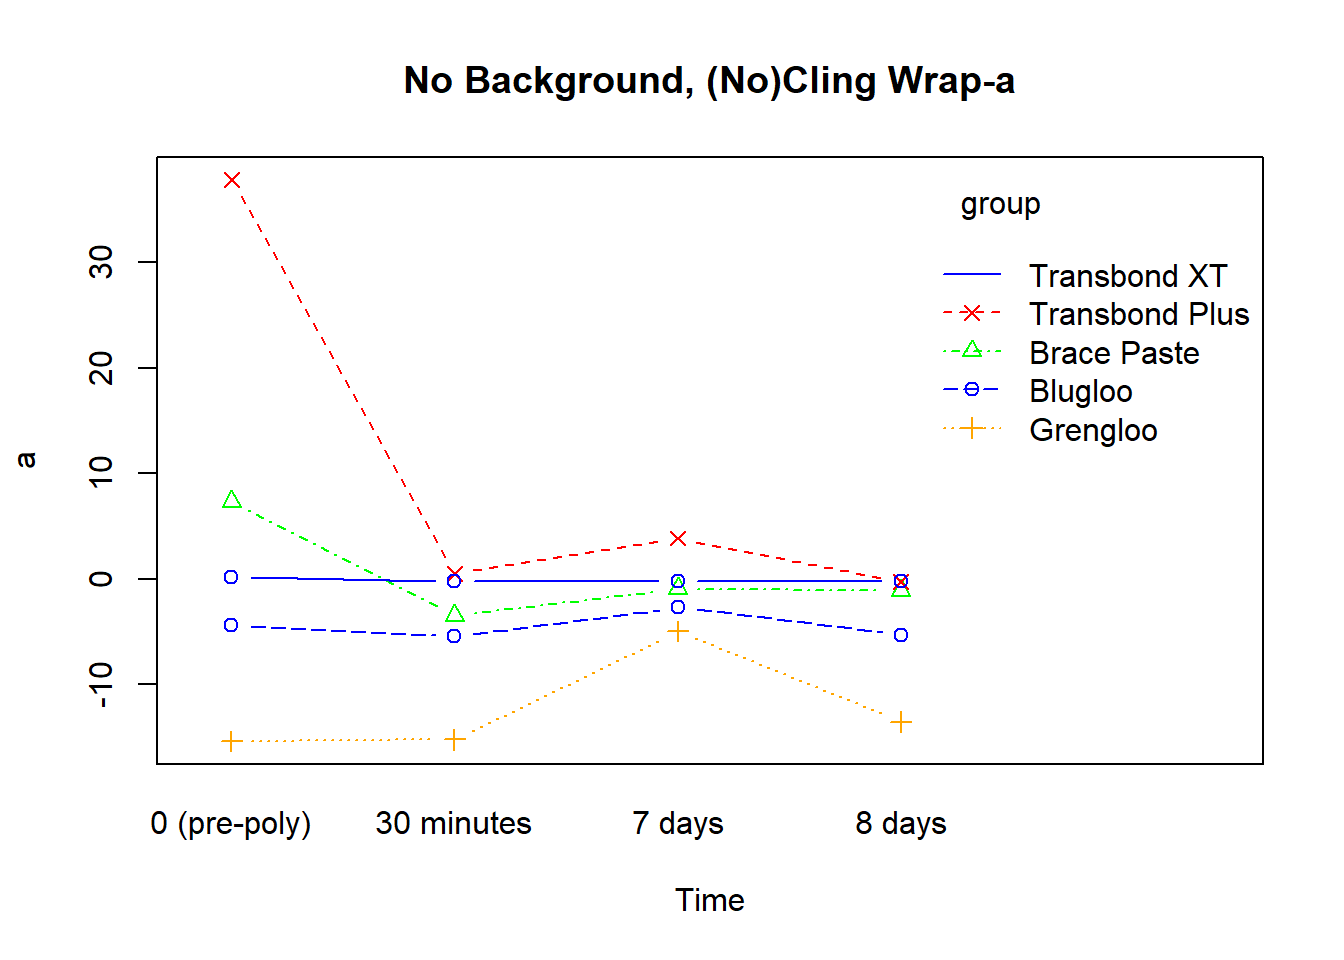
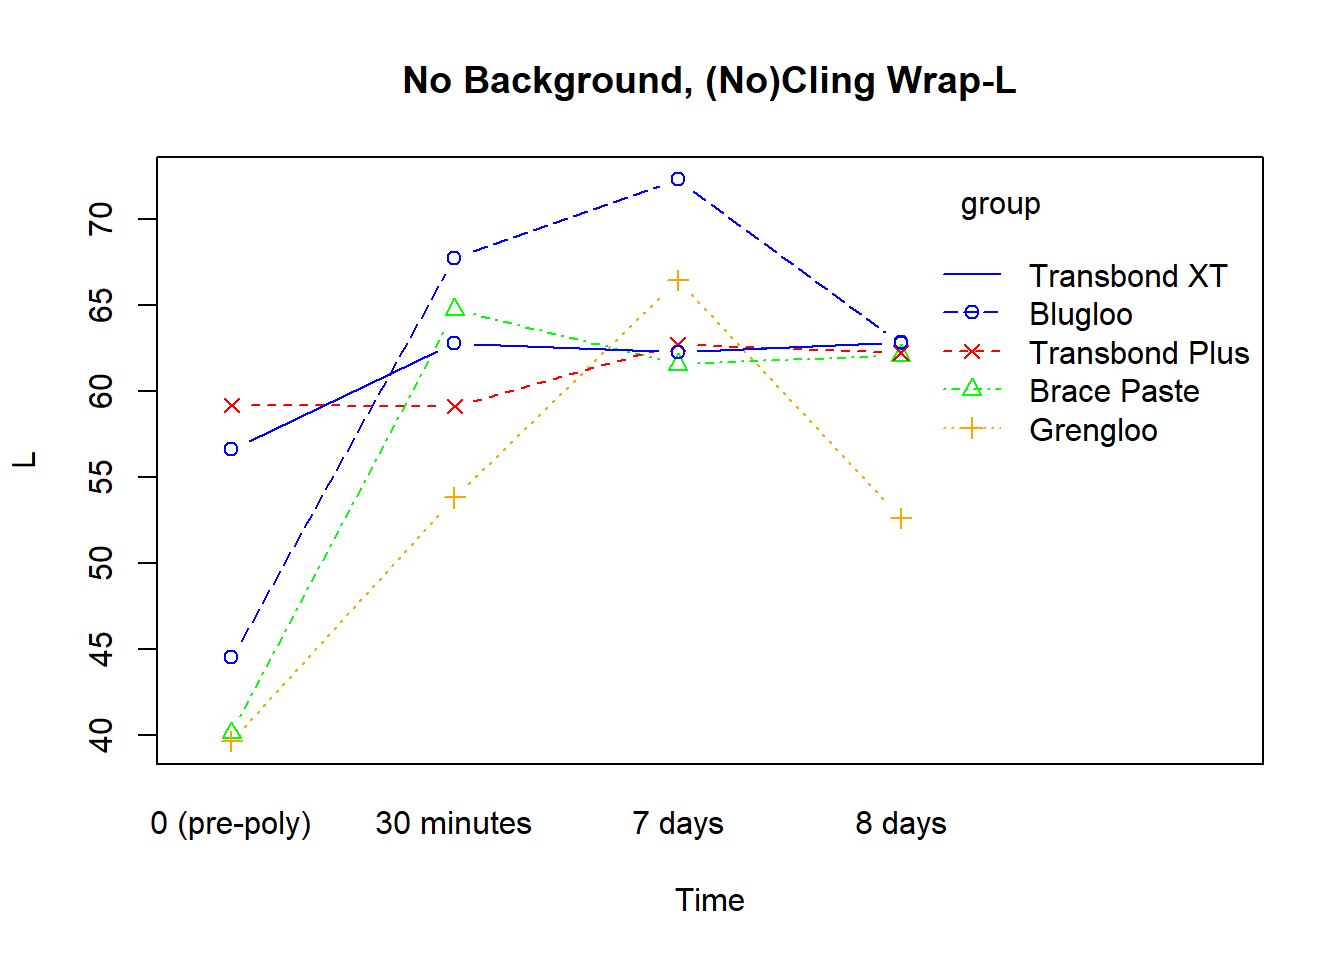
5/10/2022

diff --git a/docs/2022_Apr2.html b/docs/2022_Apr2.html
@@ -381,7 +381,7 @@ div.tocify {
 <div class="tab-content">
 <div id="summary" class="tab-pane fade in active">
 <p>
-<strong>Last updated:</strong> 2022-05-03
+<strong>Last updated:</strong> 2022-05-10
 </p>
 <p>
 <strong>Checks:</strong> <span class="glyphicon glyphicon-ok text-success" aria-hidden="true"></span> 6 <span class="glyphicon glyphicon-exclamation-sign text-danger" aria-hidden="true"></span> 1
@@ -472,16 +472,16 @@ This reproducible <a href="https://rmarkdown.rstudio.com">R Markdown</a> analysi
 <div class="panel panel-default">
 <div class="panel-heading">
 <p class="panel-title">
-<a data-toggle="collapse" data-parent="#workflowr-checks" href="#strongRepositoryversionstrongahrefhttpsgithubcomhan16Collaborationstreef0edaa047ded06655934db1cfc3f0a35de7aabb6targetblankf0edaa0a"> <span class="glyphicon glyphicon-ok text-success" aria-hidden="true"></span> <strong>Repository version:</strong> <a href="https://github.com/han16/Collaborations/tree/f0edaa047ded06655934db1cfc3f0a35de7aabb6" target="_blank">f0edaa0</a> </a>
+<a data-toggle="collapse" data-parent="#workflowr-checks" href="#strongRepositoryversionstrongahrefhttpsgithubcomhan16Collaborationstree24c530570c84b04e310db9ac09c3ef4d32ff3679targetblank24c5305a"> <span class="glyphicon glyphicon-ok text-success" aria-hidden="true"></span> <strong>Repository version:</strong> <a href="https://github.com/han16/Collaborations/tree/24c530570c84b04e310db9ac09c3ef4d32ff3679" target="_blank">24c5305</a> </a>
 </p>
 </div>
[2 lines of base64/hex data omitted]
 <div class="panel-body">
 <p>
 Great! You are using Git for version control. Tracking code development and connecting the code version to the results is critical for reproducibility.
 </p>
 <p>
-The results in this page were generated with repository version <a href="https://github.com/han16/Collaborations/tree/f0edaa047ded06655934db1cfc3f0a35de7aabb6" target="_blank">f0edaa0</a>. See the <em>Past versions</em> tab to see a history of the changes made to the R Markdown and HTML files.
+The results in this page were generated with repository version <a href="https://github.com/han16/Collaborations/tree/24c530570c84b04e310db9ac09c3ef4d32ff3679" target="_blank">24c5305</a>. See the <em>Past versions</em> tab to see a history of the changes made to the R Markdown and HTML files.
 </p>
 <p>
 Note that you need to be careful to ensure that all relevant files for the analysis have been committed to Git prior to generating the results (you can use <code>wflow_publish</code> or <code>wflow_git_commit</code>). workflowr only checks the R Markdown file, but you know if there are other scripts or data files that it depends on. Below is the status of the Git repository when the results were generated:
@@ -530,6 +530,40 @@ Message
 </tr>
 </thead>
 <tbody>
+<tr>
+<td>
+Rmd
+</td>
+<td>
+<a href="https://github.com/han16/Collaborations/blob/261f387cee753d8516ccf01fd4056c6f5c880e26/analysis/2022_Apr2.Rmd" target="_blank">261f387</a>
+</td>
+<td>
+Han
+</td>
+<td>
+2022-05-03
+</td>
+<td>
+5/3/2022
+</td>
+</tr>
+<tr>
+<td>
+html
+</td>
+<td>
+<a href="https://rawcdn.githack.com/han16/Collaborations/261f387cee753d8516ccf01fd4056c6f5c880e26/docs/2022_Apr2.html" target="_blank">261f387</a>
+</td>
+<td>
+Han
+</td>
+<td>
+2022-05-03
+</td>
+<td>
+5/3/2022
+</td>
+</tr>
 <tr>
 <td>
 Rmd
@@ -760,6 +794,38 @@ Han
 <li><p>small p value (0) indicates that they are not all equal</p></li>
 </ul>
 </div>
+<div id="pairwise-comparison-of-each-material-to-control-for-translucency" class="section level2">
+<h2>pairwise comparison of each material to control for Translucency</h2>
+<table>
+<thead>
+<tr class="header">
+<th align="left">comparison</th>
+<th align="right">p_value</th>
+</tr>
+</thead>
+<tbody>
+<tr class="odd">
+<td align="left">Brace Paste vs Transbond XT</td>
+<td align="right">0.0006081</td>
+</tr>
+<tr class="even">
+<td align="left">Blugloo vs Transbond XT</td>
+<td align="right">0.0000000</td>
+</tr>
+<tr class="odd">
+<td align="left">Grengloo vs Transbond XT</td>
+<td align="right">0.0000000</td>
+</tr>
+<tr class="even">
+<td align="left">Transbond Plus vs Transbond XT</td>
+<td align="right">0.0005694</td>
+</tr>
+</tbody>
+</table>
+<ul>
+<li>for column <code>Translucency_of each at_37C_EE-FF_DE</code>, compare with different materials</li>
+</ul>
+</div>
 <div id="dd-vs-gg" class="section level2">
 <h2>DD vs GG</h2>
 <table>
@@ -812,39 +878,39 @@ Han
 </div>
 <div id="response-profile-analysis" class="section level2">
 <h2>response profile analysis</h2>
-<div id="no-background-nocling-wrap-l" class="section level3">
-<h3>No Background, (No)Cling Wrap-L</h3>
-<p><img src="figure/2022_Apr2.Rmd/unnamed-chunk-4-1.png" width="672" style="display: block; margin: auto;" /></p>
-<pre><code>Denom. DF: 180 
-            numDF  F-value p-value
-(Intercept)     1 392513.1  &lt;.0001
-time            3   1571.3  &lt;.0001
-group           4    304.2  &lt;.0001
-time:group     12    190.4  &lt;.0001</code></pre>
+<div id="no-background-no-cling-wrap-l" class="section level3">
+<h3>No Background, No Cling Wrap-L</h3>
+<p><img src="figure/2022_Apr2.Rmd/unnamed-chunk-6-1.png" width="672" style="display: block; margin: auto;" /></p>
+<pre><code>Denom. DF: 135 
+            numDF   F-value p-value
+(Intercept)     1 232235.26  &lt;.0001
+time            2   1974.82  &lt;.0001
+group           4    397.84  &lt;.0001
+time:group      8    136.87  &lt;.0001</code></pre>
 <ul>
 <li><p>small p value for <code>time:group</code> suggests the change pattern after 0 (pre-poly) are different across material groups.</p></li>
-<li><p>four conditions are <code>Pre-Polymerization-No Background, Cling Wrap-L</code>, <code>30 Minutes Post-Polymerization-No Background, No Cling Wrap-L</code>, <code>7 Days Post-Polymerization-No Background, No Cling Wrap-L</code>, <code>8 Days Post-Polymerization-No Background, No Cling Wrap-L</code>, so in addition to time difference, Cling wrap is also different as only <code>Cling wrap</code> happens at Pre-Polymerization.</p></li>
+<li><p>four conditions are <code>Pre-Polymerization-No Background, Cling Wrap-L</code>, <code>30 Minutes Post-Polymerization-No Background, No Cling Wrap-L</code>, <code>8 Days Post-Polymerization-No Background, No Cling Wrap-L</code>, while at 0, use adjusted values</p></li>
 </ul>
 </div>
-<div id="no-background-nocling-wrap-a" class="section level3">
-<h3>No Background, (No)Cling Wrap-a</h3>
-<p><img src="figure/2022_Apr2.Rmd/unnamed-chunk-5-1.png" width="672" style="display: block; margin: auto;" /></p>
-<pre><code>Denom. DF: 180 
-            numDF   F-value p-value
-(Intercept)     1  2167.724  &lt;.0001
-time            3  7735.818  &lt;.0001
-group           4 20832.936  &lt;.0001
-time:group     12  5370.746  &lt;.0001</code></pre>
+<div id="no-background-no-cling-wrap-a" class="section level3">
+<h3>No Background, No Cling Wrap-a</h3>
+<p><img src="figure/2022_Apr2.Rmd/unnamed-chunk-7-1.png" width="672" style="display: block; margin: auto;" /></p>
+<pre><code>Denom. DF: 135 
+            numDF  F-value p-value
+(Intercept)     1  3344.24  &lt;.0001
+time            2 12351.30  &lt;.0001
+group           4 31646.57  &lt;.0001
+time:group      8  9483.02  &lt;.0001</code></pre>
 </div>
 <div id="no-background-nocling-wrap-b" class="section level3">
 <h3>No Background, (No)Cling Wrap-b</h3>
-<p><img src="figure/2022_Apr2.Rmd/unnamed-chunk-6-1.png" width="672" style="display: block; margin: auto;" /></p>
-<pre><code>Denom. DF: 180 
+<p><img src="figure/2022_Apr2.Rmd/unnamed-chunk-8-1.png" width="672" style="display: block; margin: auto;" /></p>
+<pre><code>Denom. DF: 135 
             numDF   F-value p-value
-(Intercept)     1  518.8021  &lt;.0001
-time            3  627.0366  &lt;.0001
-group           4 2954.5345  &lt;.0001
-time:group     12  325.3123  &lt;.0001</code></pre>
+(Intercept)     1   20.2383  &lt;.0001
+time            2  124.9954  &lt;.0001
+group           4 3034.8702  &lt;.0001
+time:group      8  265.6015  &lt;.0001</code></pre>
 </div>
 </div>
 <div id="statistical-software" class="section level2">
